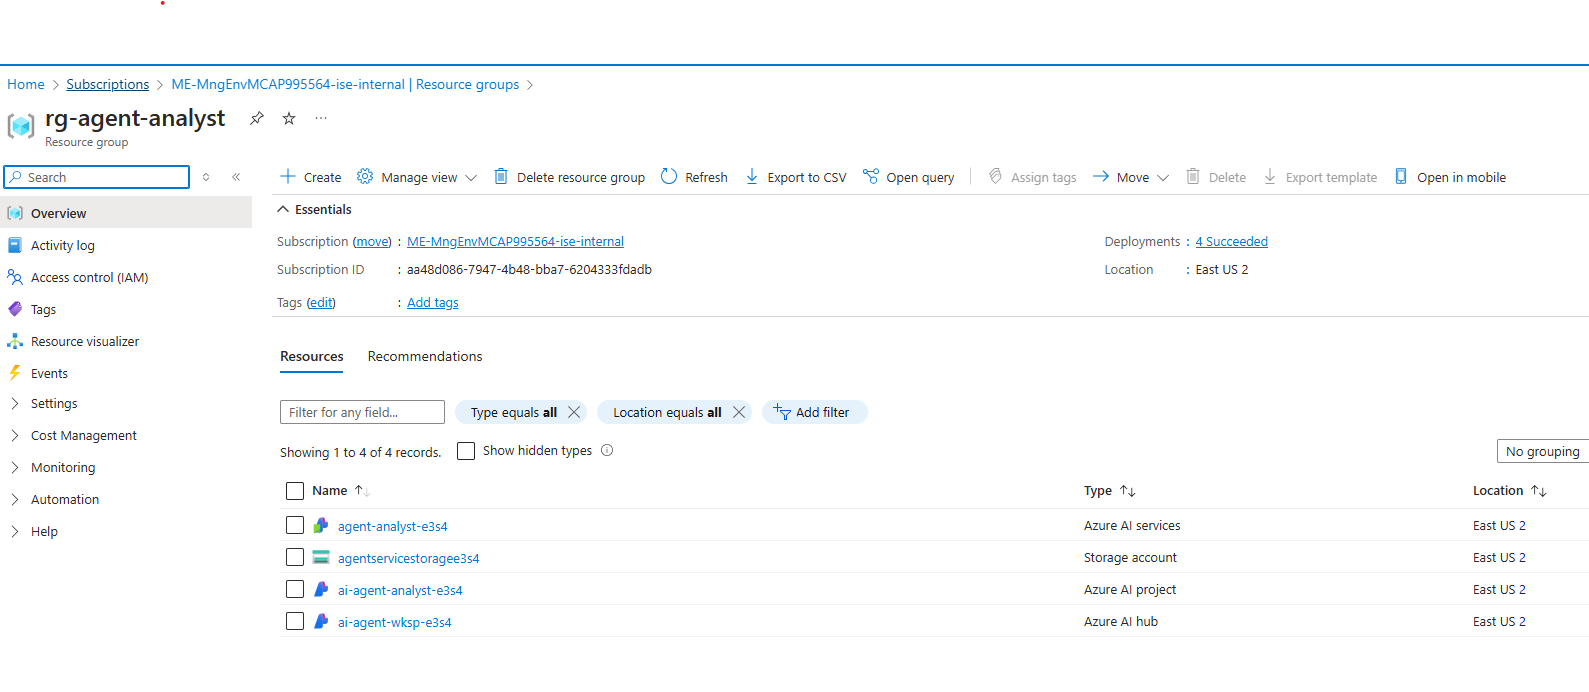
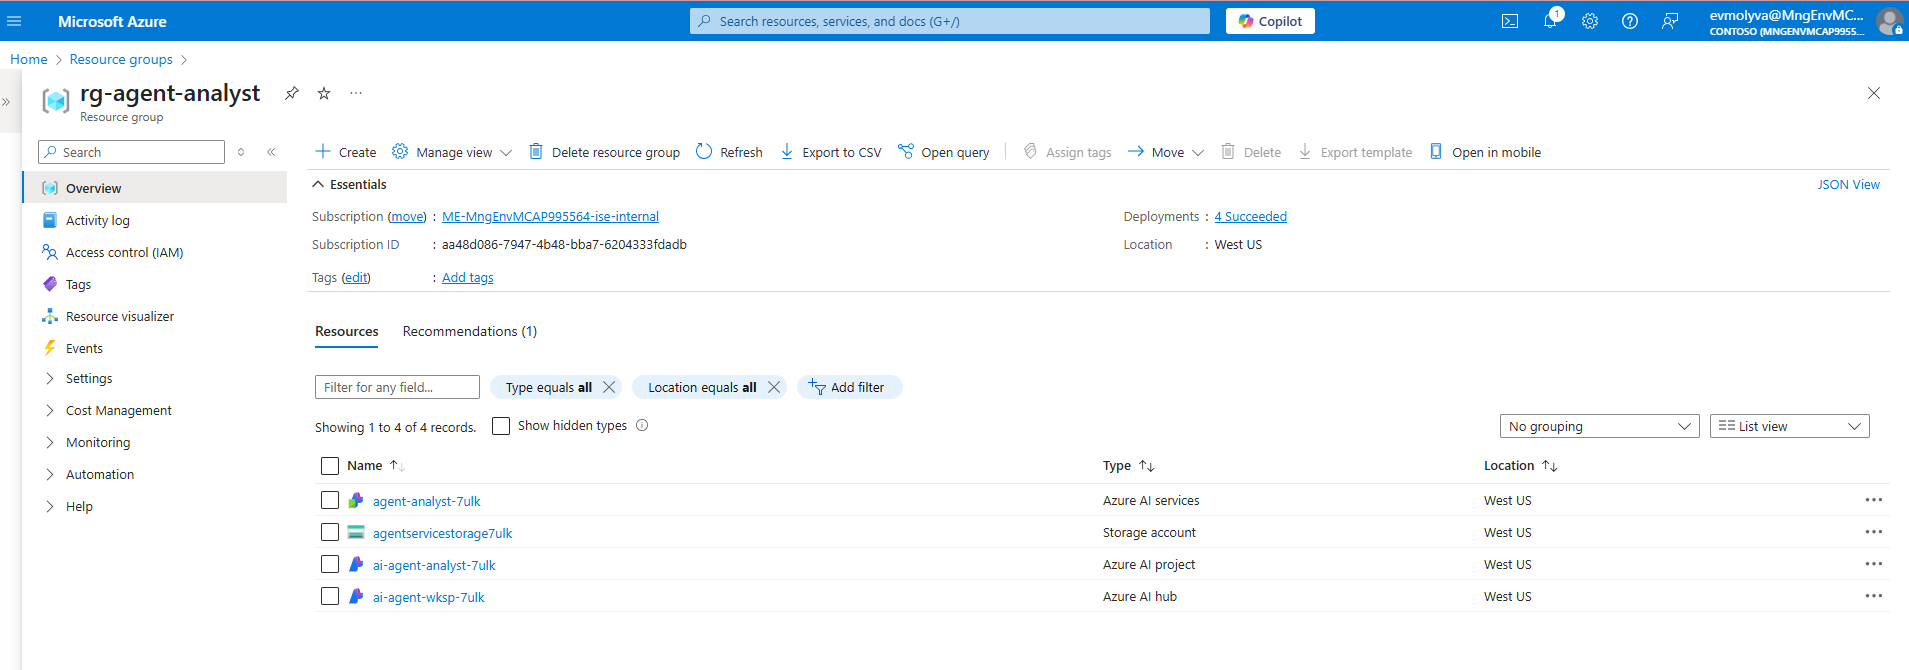
Updated docs adn Dockerfile

diff --git a/README.md b/README.md
@@ -1,5 +1,9 @@
 # Overview
 
+This repository contains sample code for building a simple AI agent using Azure services.
+
+The purpose of the AI Agent is to summarize and analyze organization data given the name of the organization.
+
 ## Prerequisites
 
 - Docker (Desktop or Engine) is installed so that you can run the project using a devcontainer.
@@ -8,20 +12,20 @@
 ## Infrastructure
 
 ```bash
-# Login to Azure
+# login to Azure
 az login
 
-#navigate to the infrastructure directory
+# navigate to the infrastructure directory
 cd infrastructure
 
 # run the deployment script
 . ./deploy.sh
 ```
 
-The `infrastructure/deploy.sh` script automates the deployment of Azure resources and performs several post-deployment tasks.
+The `infrastructure/deploy.sh` script automates the deployment of Azure resources and performs several post-deployment tasks, ensuring all necessary resources and settings are prepared for the project. 
 
 1. **Resource Group Creation**:
-   - Creates a resource group named `rg-agent-vanalyst` in the `eastus` region.
+   - Creates a resource group named `rg-agent-analyst` in the `westus` region.
 
 1. **Azure Resource Deployment**:
    - Deploys resources defined in the `main.bicep` file using the Azure CLI. Parameters like `aiHubName`, `aiProjectName`, `modelName`, and others are passed to customize the deployment.
@@ -40,23 +44,43 @@ The `infrastructure/deploy.sh` script automates the deployment of Azure resource
 1. **Cleanup**:
    - Deletes the `output.json` file after processing.
 
-This script streamlines the deployment and configuration process, ensuring all necessary resources and settings are prepared for the project. The provisioned resources include:
+The provisioned resources include:
 
-- Azure AI Services (which includes Azure OpenAI, Azure AI Agent Service, Azure AI Search and more)
-- Azure Storage Account
-- Azure AI hub
-- Azure AI project
+- [Azure AI Services](https://learn.microsoft.com/en-us/azure/ai-services/what-are-ai-services) (includes Azure OpenAI, Azure AI Agent Service, Azure AI Search and more)
+- [Azure Storage Account](https://learn.microsoft.com/en-us/azure/storage/common/storage-account-overview)
+- [Azure AI hub](https://learn.microsoft.com/en-us/azure/ai-foundry/how-to/create-azure-ai-resource?tabs=portal)
+- [Azure AI project](https://learn.microsoft.com/en-us/azure/ai-foundry/how-to/create-projects?tabs=ai-studio)
 
 ![azure-resources](./docs/assets/azure-resources.png)
 
 
 # Run locally
 
-```bash
-cd src/api
+1. Confirm the `src/api/.env` has been created succesfully and the `PROJECT_CONNECTION_STRING` is populated referencing the newly created resources. 
 
-# Copy and rename sample.env as .env and populate the values
-cp sample.env .env
+1. Create the sqlite database with organization data based on `src/api/database/organizaton_entities.sql` by running
 
-fastapi dev main.py
-```
+   ```bash
+   # navigate to the database directory
+   cd ../src/api/database
+
+   # generate database
+   python generate_sql.py
+
+   # confirm the database has been created (33 records)
+   sqlite3 /workspaces/ai-agent/src/api/database/organizations.db "SELECT COUNT(*) FROM organizations"
+   ```
+
+1. Run the Analyst Agent API
+
+   ```bash
+   # navigate back to the api directory
+   cd ..
+
+   # run the API 
+   fastapi dev main.py
+   ```
+
+   The API will load in which will load on http://127.0.0.1:8000/docs.
+   
+   Try out the GET /analyze endpoint by setting the query to a company name (e.g., Omni Labs)
